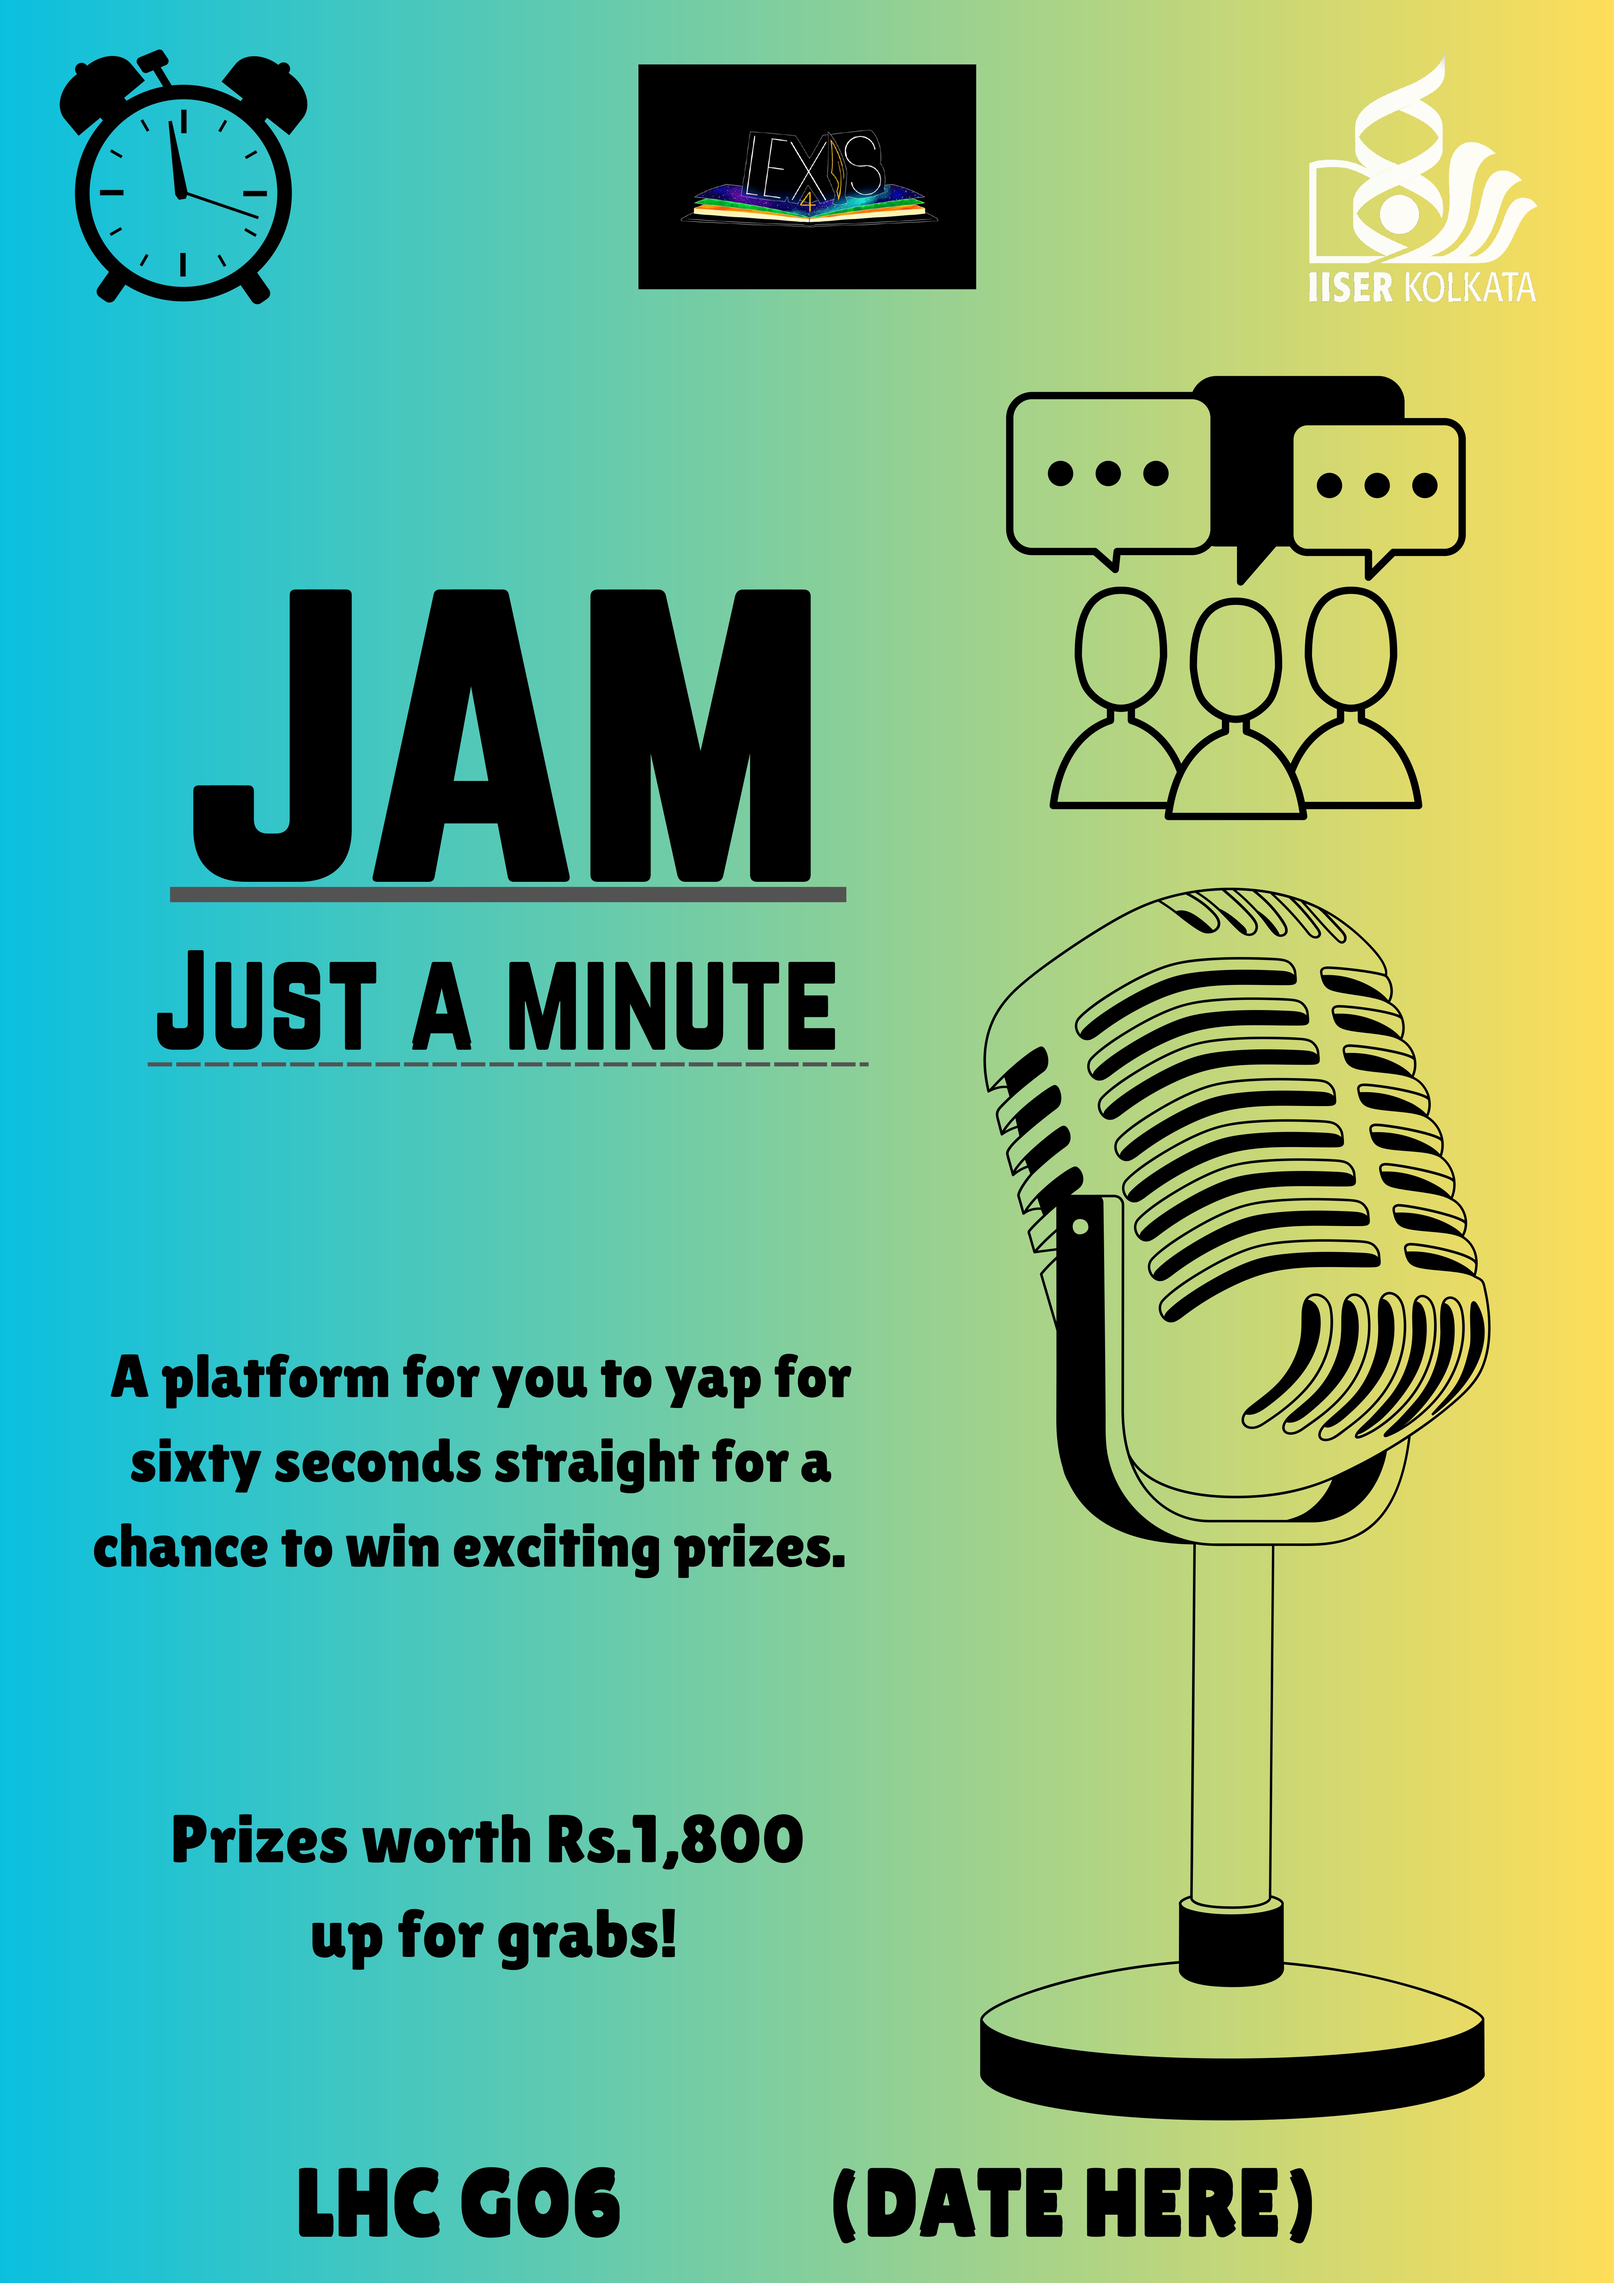
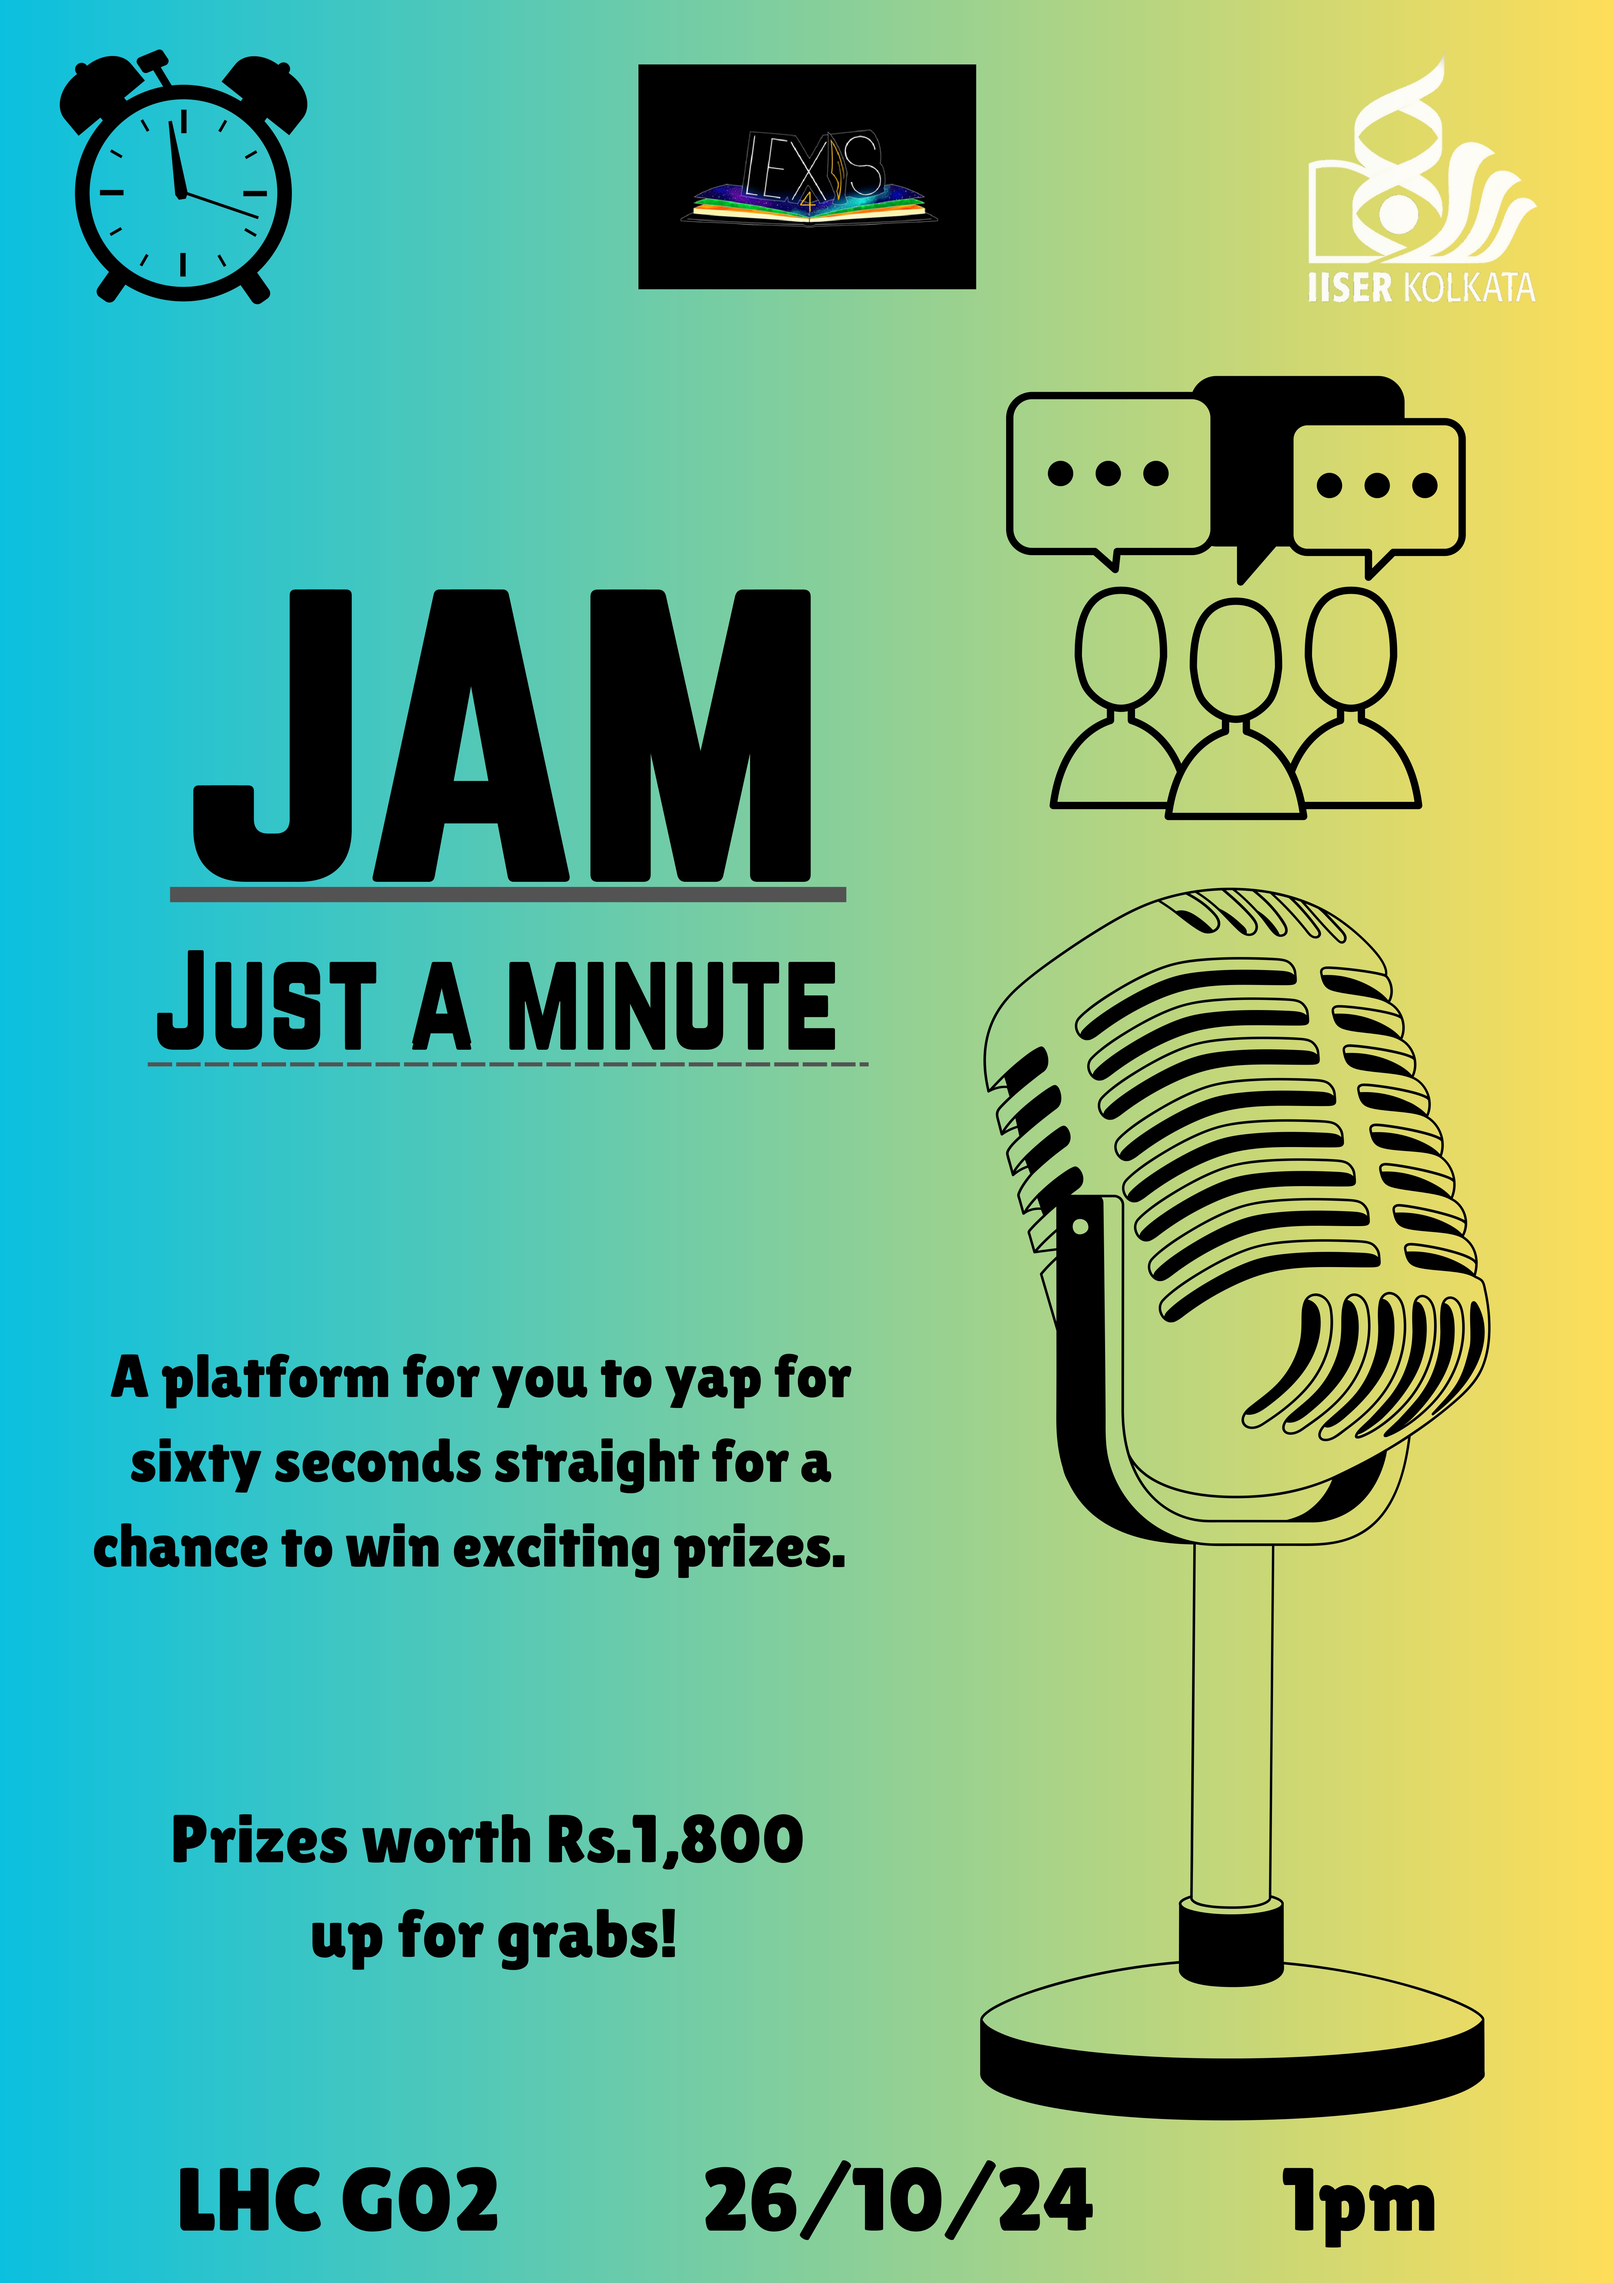
updated posters nd fixed reading room desc

Changed region(s): [[0.4375, 0.9364, 0.9062, 0.9989], [0.0938, 0.9364, 0.4062, 0.9989], [0.5, 0.0624, 0.5312, 0.0936]]

diff --git a/src/content/events/event14.md b/src/content/events/event14.md
@@ -5,19 +5,18 @@ time: 10:00 AM
 date: Oct 26-27
 organisers: Basudha Mukerjee, Sneha Pradhan
 contacts: bm23ms135@iiserkol.ac.in, sp21ms036@iiserkol.ac.in
-poster: event14.jpg
+poster: /event14.jpg
 ---
 
-As an institute committed to the pursuit of truth, War of Words, Lexis’ famed debate event,
-tests the mettle of ideas and the debaters defending them. With a plethora of spicy topics to
-choose from, this event will surely have you on the edge of your seats.
-### Event Outline:
-1. The debate will take place in either a Lincoln-Douglas or a Cross-Examination format
-(depending on participant turnout).
-2. For the topics, we plan to send a mail to all members of the IISER-K community, seeking
-to find the topics they wish to see debated. To this list, several topics will be appended
-by the EO. The final list will then be decided by either public vote or by Lexis Organizers.
-The final list of topics will then be sent to all and participants will be able to choose
-which topics they want to debate over.
-3. The event will be judged both by selected judges (IISER-K profs) and the audience (finer
-details on this will be provided later).
+The Reading Room was one of the most praised aspect of Lexis last year and we plan to give
+the people what they want. A cozy reading nook where everyone is welcome to read their
+favorite books. We give you the ambience, you just relax!
+Outline of the event:
+1. Books will be available in the reading room (donated by students) - so that it is not nec-
+essary for people to carry their own books.
+2. If someone carries their own book they will have to enter their book in a book/paper at
+the main counter where volunteers will keep track of this list.
+3. Volunteers will keep an eye on the people inside the room at all times to ensure there
+are no problems and avoid external disturbances (by keeping the door closed).
+4. The room will be decorated suitably to give the ambience of it being a “cozy reading
+nook”.
